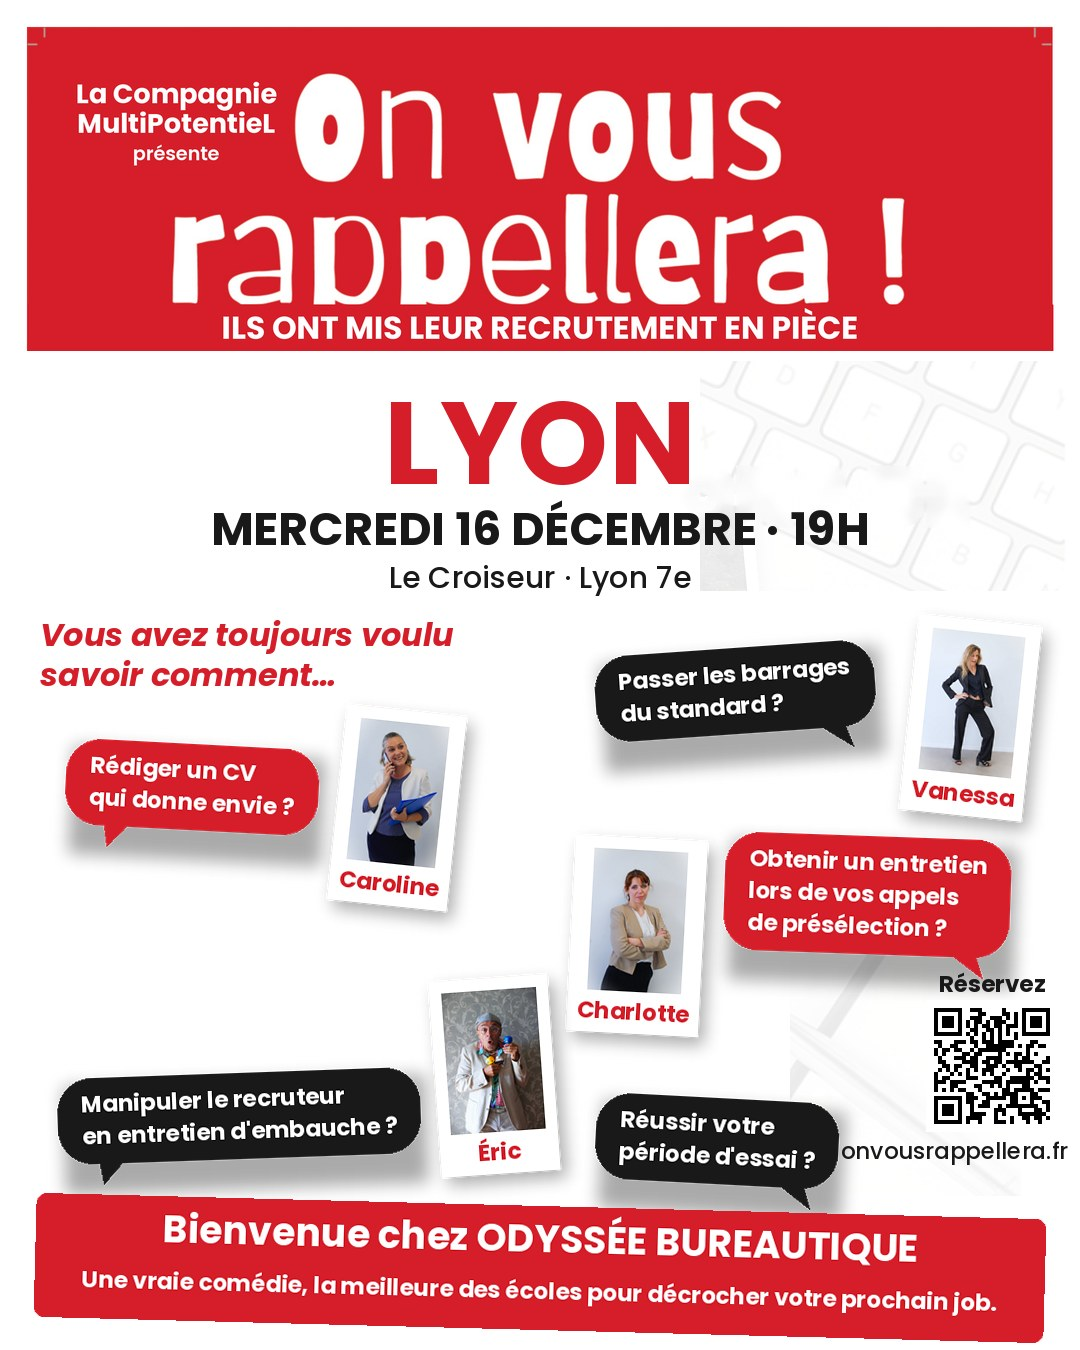
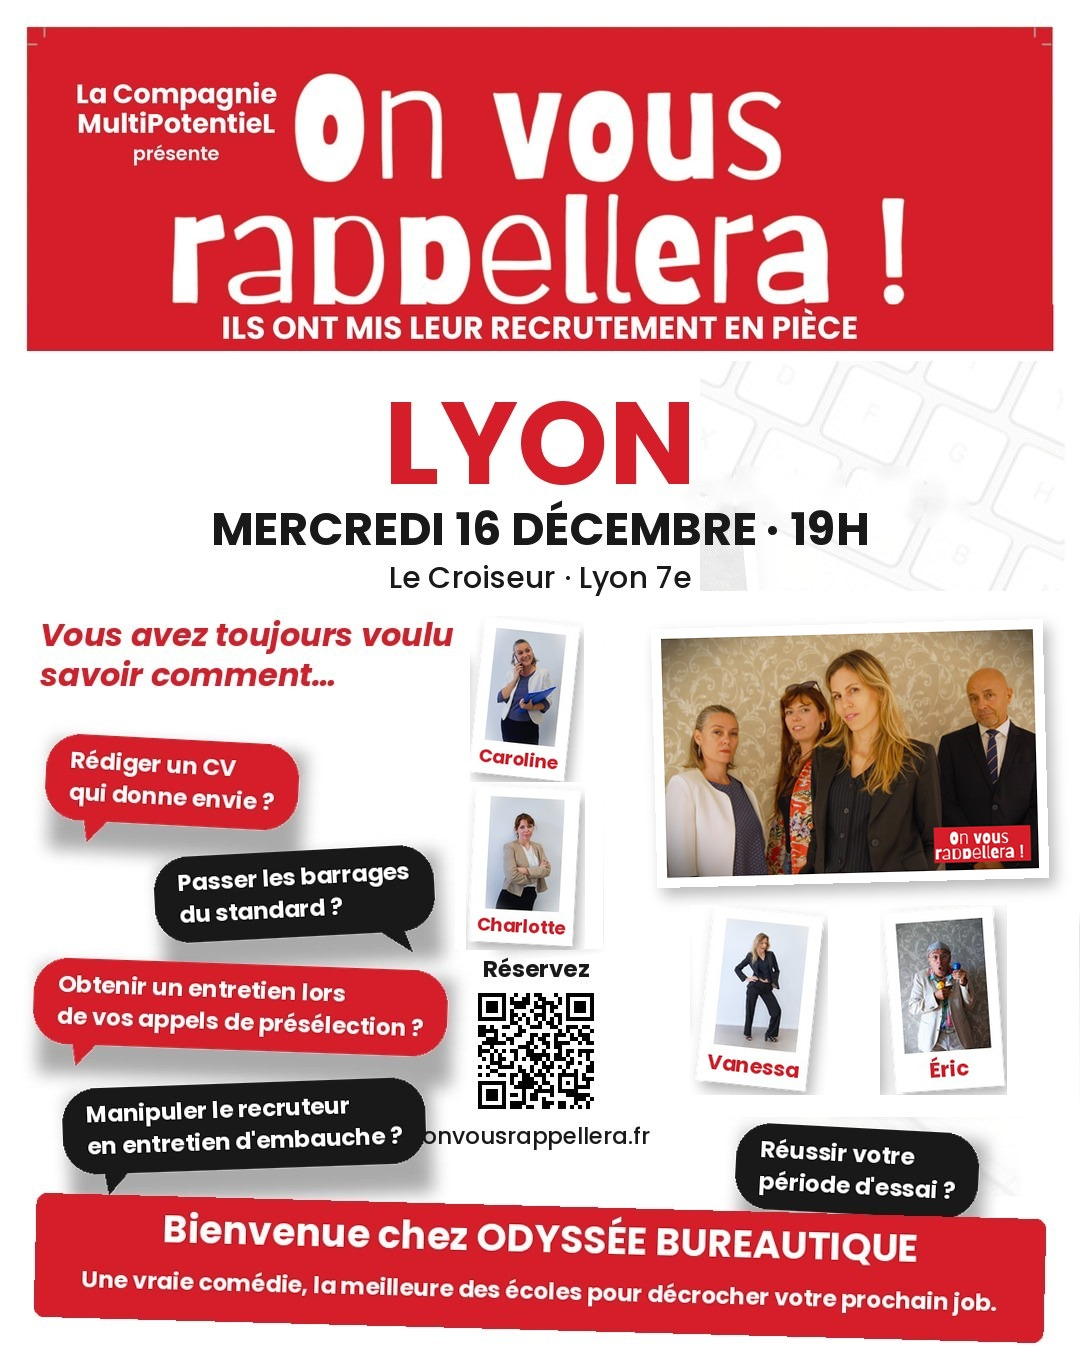
Affiches Lyon 16/12 : photo de troupe du 20/10
Claude-Session: https://claude.ai/code/session_013513eGyTPcEY9eVwQX78Rp

Changed region(s): [[0.0306, 0.4667, 0.9778, 0.9022]]

diff --git a/affiches.html b/affiches.html
@@ -1,3 +1,3 @@
 <!doctype html><html lang="fr"><head><meta charset="utf-8"><meta name="viewport" content="width=device-width,initial-scale=1"><meta name="robots" content="noindex"><title>Les affiches des troupes — On Vous Rappellera</title>
 <style>body{margin:0;background:#fff;color:#191919;font-family:Poppins,Arial,sans-serif}main{max-width:1180px;margin:0 auto;padding:24px 16px 60px}h1{color:#d51e29;font-size:1.7rem;margin:.2rem 0 .3rem}p.intro{margin:0 0 1.6rem;color:#4a463f}.grid{display:grid;grid-template-columns:repeat(auto-fill,minmax(320px,1fr));gap:28px}figure{margin:0}figure h2{font-size:1.05rem;margin:0 0 .5rem;color:#d51e29}figure h2 span{color:#191919;font-weight:600}img{width:100%;height:auto;display:block;border:1px solid #ddd;border-radius:6px}figcaption{margin-top:.45rem}figcaption a{color:#0b57d0;text-decoration:underline}@media(max-width:700px){.grid{grid-template-columns:1fr}}</style></head>
-<body><main><h1>Les affiches de <b>ON VOUS RAPPELLERA</b></h1><p class="intro">Une affiche par représentation, avec la troupe qui joue ce soir-là. Cliquez sur une affiche pour l'ouvrir en grand, ou téléchargez-la pour la partager.</p><div class="grid"><figure><h2>PARIS <span>Dimanche 22 novembre · 19h</span></h2><a href="assets/affiches/affiche-paris-2211-19h.jpg" target="_blank" rel="noopener"><img src="assets/affiches/affiche-paris-2211-19h.jpg" alt="Affiche PARIS Dimanche 22 novembre · 19h" loading="lazy"></a><figcaption><a href="assets/affiches/affiche-paris-2211-19h.jpg" download>Télécharger l'affiche</a></figcaption></figure><figure><h2>PARIS <span>Jeudi 26 novembre · 21h</span></h2><a href="assets/affiches/affiche-paris-2611-21h.jpg?v=4" target="_blank" rel="noopener"><img src="assets/affiches/affiche-paris-2611-21h.jpg?v=4" alt="Affiche PARIS Jeudi 26 novembre · 21h — troupe Honnêteté" loading="lazy"></a><figcaption><a href="assets/affiches/affiche-paris-2611-21h.jpg?v=4" download>Télécharger l'affiche</a></figcaption></figure><figure><h2>TOULOUSE <span>Mercredi 2 décembre · 20h</span></h2><a href="assets/affiches/affiche-toulouse-0212-20h.jpg" target="_blank" rel="noopener"><img src="assets/affiches/affiche-toulouse-0212-20h.jpg" alt="Affiche TOULOUSE Mercredi 2 décembre · 20h" loading="lazy"></a><figcaption><a href="assets/affiches/affiche-toulouse-0212-20h.jpg" download>Télécharger l'affiche</a></figcaption></figure><figure><h2>RENNES <span>Mercredi 9 décembre · 20h</span></h2><a href="assets/affiches/affiche-rennes-0912-20h.jpg" target="_blank" rel="noopener"><img src="assets/affiches/affiche-rennes-0912-20h.jpg" alt="Affiche RENNES Mercredi 9 décembre · 20h" loading="lazy"></a><figcaption><a href="assets/affiches/affiche-rennes-0912-20h.jpg" download>Télécharger l'affiche</a></figcaption></figure><figure><h2>BORDEAUX <span>Jeudi 10 décembre · 18h30</span></h2><a href="assets/affiches/affiche-bordeaux-1012-1830.jpg" target="_blank" rel="noopener"><img src="assets/affiches/affiche-bordeaux-1012-1830.jpg" alt="Affiche BORDEAUX Jeudi 10 décembre · 18h30" loading="lazy"></a><figcaption><a href="assets/affiches/affiche-bordeaux-1012-1830.jpg" download>Télécharger l'affiche</a></figcaption></figure><figure><h2>BORDEAUX <span>Jeudi 10 décembre · 20h30</span></h2><a href="assets/affiches/affiche-bordeaux-1012-2030.jpg" target="_blank" rel="noopener"><img src="assets/affiches/affiche-bordeaux-1012-2030.jpg" alt="Affiche BORDEAUX Jeudi 10 décembre · 20h30" loading="lazy"></a><figcaption><a href="assets/affiches/affiche-bordeaux-1012-2030.jpg" download>Télécharger l'affiche</a></figcaption></figure><figure><h2>PARIS <span>Samedi 12 décembre · 21h30</span></h2><a href="assets/affiches/affiche-paris-1212-2130.jpg" target="_blank" rel="noopener"><img src="assets/affiches/affiche-paris-1212-2130.jpg" alt="Affiche PARIS Samedi 12 décembre · 21h30" loading="lazy"></a><figcaption><a href="assets/affiches/affiche-paris-1212-2130.jpg" download>Télécharger l'affiche</a></figcaption></figure><figure><h2>LYON <span>Mercredi 16 décembre · 19h</span></h2><a href="assets/affiches/affiche-lyon-1612-19h.jpg" target="_blank" rel="noopener"><img src="assets/affiches/affiche-lyon-1612-19h.jpg" alt="Affiche LYON Mercredi 16 décembre · 19h" loading="lazy"></a><figcaption><a href="assets/affiches/affiche-lyon-1612-19h.jpg" download>Télécharger l'affiche</a></figcaption></figure><figure><h2>LYON <span>Mercredi 16 décembre · 21h</span></h2><a href="assets/affiches/affiche-lyon-1612-21h.jpg" target="_blank" rel="noopener"><img src="assets/affiches/affiche-lyon-1612-21h.jpg" alt="Affiche LYON Mercredi 16 décembre · 21h" loading="lazy"></a><figcaption><a href="assets/affiches/affiche-lyon-1612-21h.jpg" download>Télécharger l'affiche</a></figcaption></figure><figure><h2>BORDEAUX <span>Jeudi 17 décembre · 18h30</span></h2><a href="assets/affiches/affiche-bordeaux-1712-1830.jpg" target="_blank" rel="noopener"><img src="assets/affiches/affiche-bordeaux-1712-1830.jpg" alt="Affiche BORDEAUX Jeudi 17 décembre · 18h30" loading="lazy"></a><figcaption><a href="assets/affiches/affiche-bordeaux-1712-1830.jpg" download>Télécharger l'affiche</a></figcaption></figure><figure><h2>BORDEAUX <span>Jeudi 17 décembre · 20h30</span></h2><a href="assets/affiches/affiche-bordeaux-1712-2030.jpg" target="_blank" rel="noopener"><img src="assets/affiches/affiche-bordeaux-1712-2030.jpg" alt="Affiche BORDEAUX Jeudi 17 décembre · 20h30" loading="lazy"></a><figcaption><a href="assets/affiches/affiche-bordeaux-1712-2030.jpg" download>Télécharger l'affiche</a></figcaption></figure><figure><h2>PARIS <span>Vendredi 18 décembre · 19h30</span></h2><a href="assets/affiches/affiche-paris-1812-1930.jpg" target="_blank" rel="noopener"><img src="assets/affiches/affiche-paris-1812-1930.jpg" alt="Affiche PARIS Vendredi 18 décembre · 19h30" loading="lazy"></a><figcaption><a href="assets/affiches/affiche-paris-1812-1930.jpg" download>Télécharger l'affiche</a></figcaption></figure><figure><h2>NANTES <span>Mardi 19 janvier · 21h</span></h2><a href="assets/affiches/affiche-nantes-1901-21h.jpg" target="_blank" rel="noopener"><img src="assets/affiches/affiche-nantes-1901-21h.jpg" alt="Affiche NANTES Mardi 19 janvier · 21h" loading="lazy"></a><figcaption><a href="assets/affiches/affiche-nantes-1901-21h.jpg" download>Télécharger l'affiche</a></figcaption></figure></div></main></body></html>
+<body><main><h1>Les affiches de <b>ON VOUS RAPPELLERA</b></h1><p class="intro">Une affiche par représentation, avec la troupe qui joue ce soir-là. Cliquez sur une affiche pour l'ouvrir en grand, ou téléchargez-la pour la partager.</p><div class="grid"><figure><h2>PARIS <span>Dimanche 22 novembre · 19h</span></h2><a href="assets/affiches/affiche-paris-2211-19h.jpg" target="_blank" rel="noopener"><img src="assets/affiches/affiche-paris-2211-19h.jpg" alt="Affiche PARIS Dimanche 22 novembre · 19h" loading="lazy"></a><figcaption><a href="assets/affiches/affiche-paris-2211-19h.jpg" download>Télécharger l'affiche</a></figcaption></figure><figure><h2>PARIS <span>Jeudi 26 novembre · 21h</span></h2><a href="assets/affiches/affiche-paris-2611-21h.jpg?v=4" target="_blank" rel="noopener"><img src="assets/affiches/affiche-paris-2611-21h.jpg?v=4" alt="Affiche PARIS Jeudi 26 novembre · 21h — troupe Honnêteté" loading="lazy"></a><figcaption><a href="assets/affiches/affiche-paris-2611-21h.jpg?v=4" download>Télécharger l'affiche</a></figcaption></figure><figure><h2>TOULOUSE <span>Mercredi 2 décembre · 20h</span></h2><a href="assets/affiches/affiche-toulouse-0212-20h.jpg" target="_blank" rel="noopener"><img src="assets/affiches/affiche-toulouse-0212-20h.jpg" alt="Affiche TOULOUSE Mercredi 2 décembre · 20h" loading="lazy"></a><figcaption><a href="assets/affiches/affiche-toulouse-0212-20h.jpg" download>Télécharger l'affiche</a></figcaption></figure><figure><h2>RENNES <span>Mercredi 9 décembre · 20h</span></h2><a href="assets/affiches/affiche-rennes-0912-20h.jpg" target="_blank" rel="noopener"><img src="assets/affiches/affiche-rennes-0912-20h.jpg" alt="Affiche RENNES Mercredi 9 décembre · 20h" loading="lazy"></a><figcaption><a href="assets/affiches/affiche-rennes-0912-20h.jpg" download>Télécharger l'affiche</a></figcaption></figure><figure><h2>BORDEAUX <span>Jeudi 10 décembre · 18h30</span></h2><a href="assets/affiches/affiche-bordeaux-1012-1830.jpg" target="_blank" rel="noopener"><img src="assets/affiches/affiche-bordeaux-1012-1830.jpg" alt="Affiche BORDEAUX Jeudi 10 décembre · 18h30" loading="lazy"></a><figcaption><a href="assets/affiches/affiche-bordeaux-1012-1830.jpg" download>Télécharger l'affiche</a></figcaption></figure><figure><h2>BORDEAUX <span>Jeudi 10 décembre · 20h30</span></h2><a href="assets/affiches/affiche-bordeaux-1012-2030.jpg" target="_blank" rel="noopener"><img src="assets/affiches/affiche-bordeaux-1012-2030.jpg" alt="Affiche BORDEAUX Jeudi 10 décembre · 20h30" loading="lazy"></a><figcaption><a href="assets/affiches/affiche-bordeaux-1012-2030.jpg" download>Télécharger l'affiche</a></figcaption></figure><figure><h2>PARIS <span>Samedi 12 décembre · 21h30</span></h2><a href="assets/affiches/affiche-paris-1212-2130.jpg" target="_blank" rel="noopener"><img src="assets/affiches/affiche-paris-1212-2130.jpg" alt="Affiche PARIS Samedi 12 décembre · 21h30" loading="lazy"></a><figcaption><a href="assets/affiches/affiche-paris-1212-2130.jpg" download>Télécharger l'affiche</a></figcaption></figure><figure><h2>LYON <span>Mercredi 16 décembre · 19h</span></h2><a href="assets/affiches/affiche-lyon-1612-19h.jpg?v=20261020" target="_blank" rel="noopener"><img src="assets/affiches/affiche-lyon-1612-19h.jpg?v=20261020" alt="Affiche LYON Mercredi 16 décembre · 19h" loading="lazy"></a><figcaption><a href="assets/affiches/affiche-lyon-1612-19h.jpg?v=20261020" download>Télécharger l'affiche</a></figcaption></figure><figure><h2>LYON <span>Mercredi 16 décembre · 21h</span></h2><a href="assets/affiches/affiche-lyon-1612-21h.jpg?v=20261020" target="_blank" rel="noopener"><img src="assets/affiches/affiche-lyon-1612-21h.jpg?v=20261020" alt="Affiche LYON Mercredi 16 décembre · 21h" loading="lazy"></a><figcaption><a href="assets/affiches/affiche-lyon-1612-21h.jpg?v=20261020" download>Télécharger l'affiche</a></figcaption></figure><figure><h2>BORDEAUX <span>Jeudi 17 décembre · 18h30</span></h2><a href="assets/affiches/affiche-bordeaux-1712-1830.jpg" target="_blank" rel="noopener"><img src="assets/affiches/affiche-bordeaux-1712-1830.jpg" alt="Affiche BORDEAUX Jeudi 17 décembre · 18h30" loading="lazy"></a><figcaption><a href="assets/affiches/affiche-bordeaux-1712-1830.jpg" download>Télécharger l'affiche</a></figcaption></figure><figure><h2>BORDEAUX <span>Jeudi 17 décembre · 20h30</span></h2><a href="assets/affiches/affiche-bordeaux-1712-2030.jpg" target="_blank" rel="noopener"><img src="assets/affiches/affiche-bordeaux-1712-2030.jpg" alt="Affiche BORDEAUX Jeudi 17 décembre · 20h30" loading="lazy"></a><figcaption><a href="assets/affiches/affiche-bordeaux-1712-2030.jpg" download>Télécharger l'affiche</a></figcaption></figure><figure><h2>PARIS <span>Vendredi 18 décembre · 19h30</span></h2><a href="assets/affiches/affiche-paris-1812-1930.jpg" target="_blank" rel="noopener"><img src="assets/affiches/affiche-paris-1812-1930.jpg" alt="Affiche PARIS Vendredi 18 décembre · 19h30" loading="lazy"></a><figcaption><a href="assets/affiches/affiche-paris-1812-1930.jpg" download>Télécharger l'affiche</a></figcaption></figure><figure><h2>NANTES <span>Mardi 19 janvier · 21h</span></h2><a href="assets/affiches/affiche-nantes-1901-21h.jpg" target="_blank" rel="noopener"><img src="assets/affiches/affiche-nantes-1901-21h.jpg" alt="Affiche NANTES Mardi 19 janvier · 21h" loading="lazy"></a><figcaption><a href="assets/affiches/affiche-nantes-1901-21h.jpg" download>Télécharger l'affiche</a></figcaption></figure></div></main></body></html>
